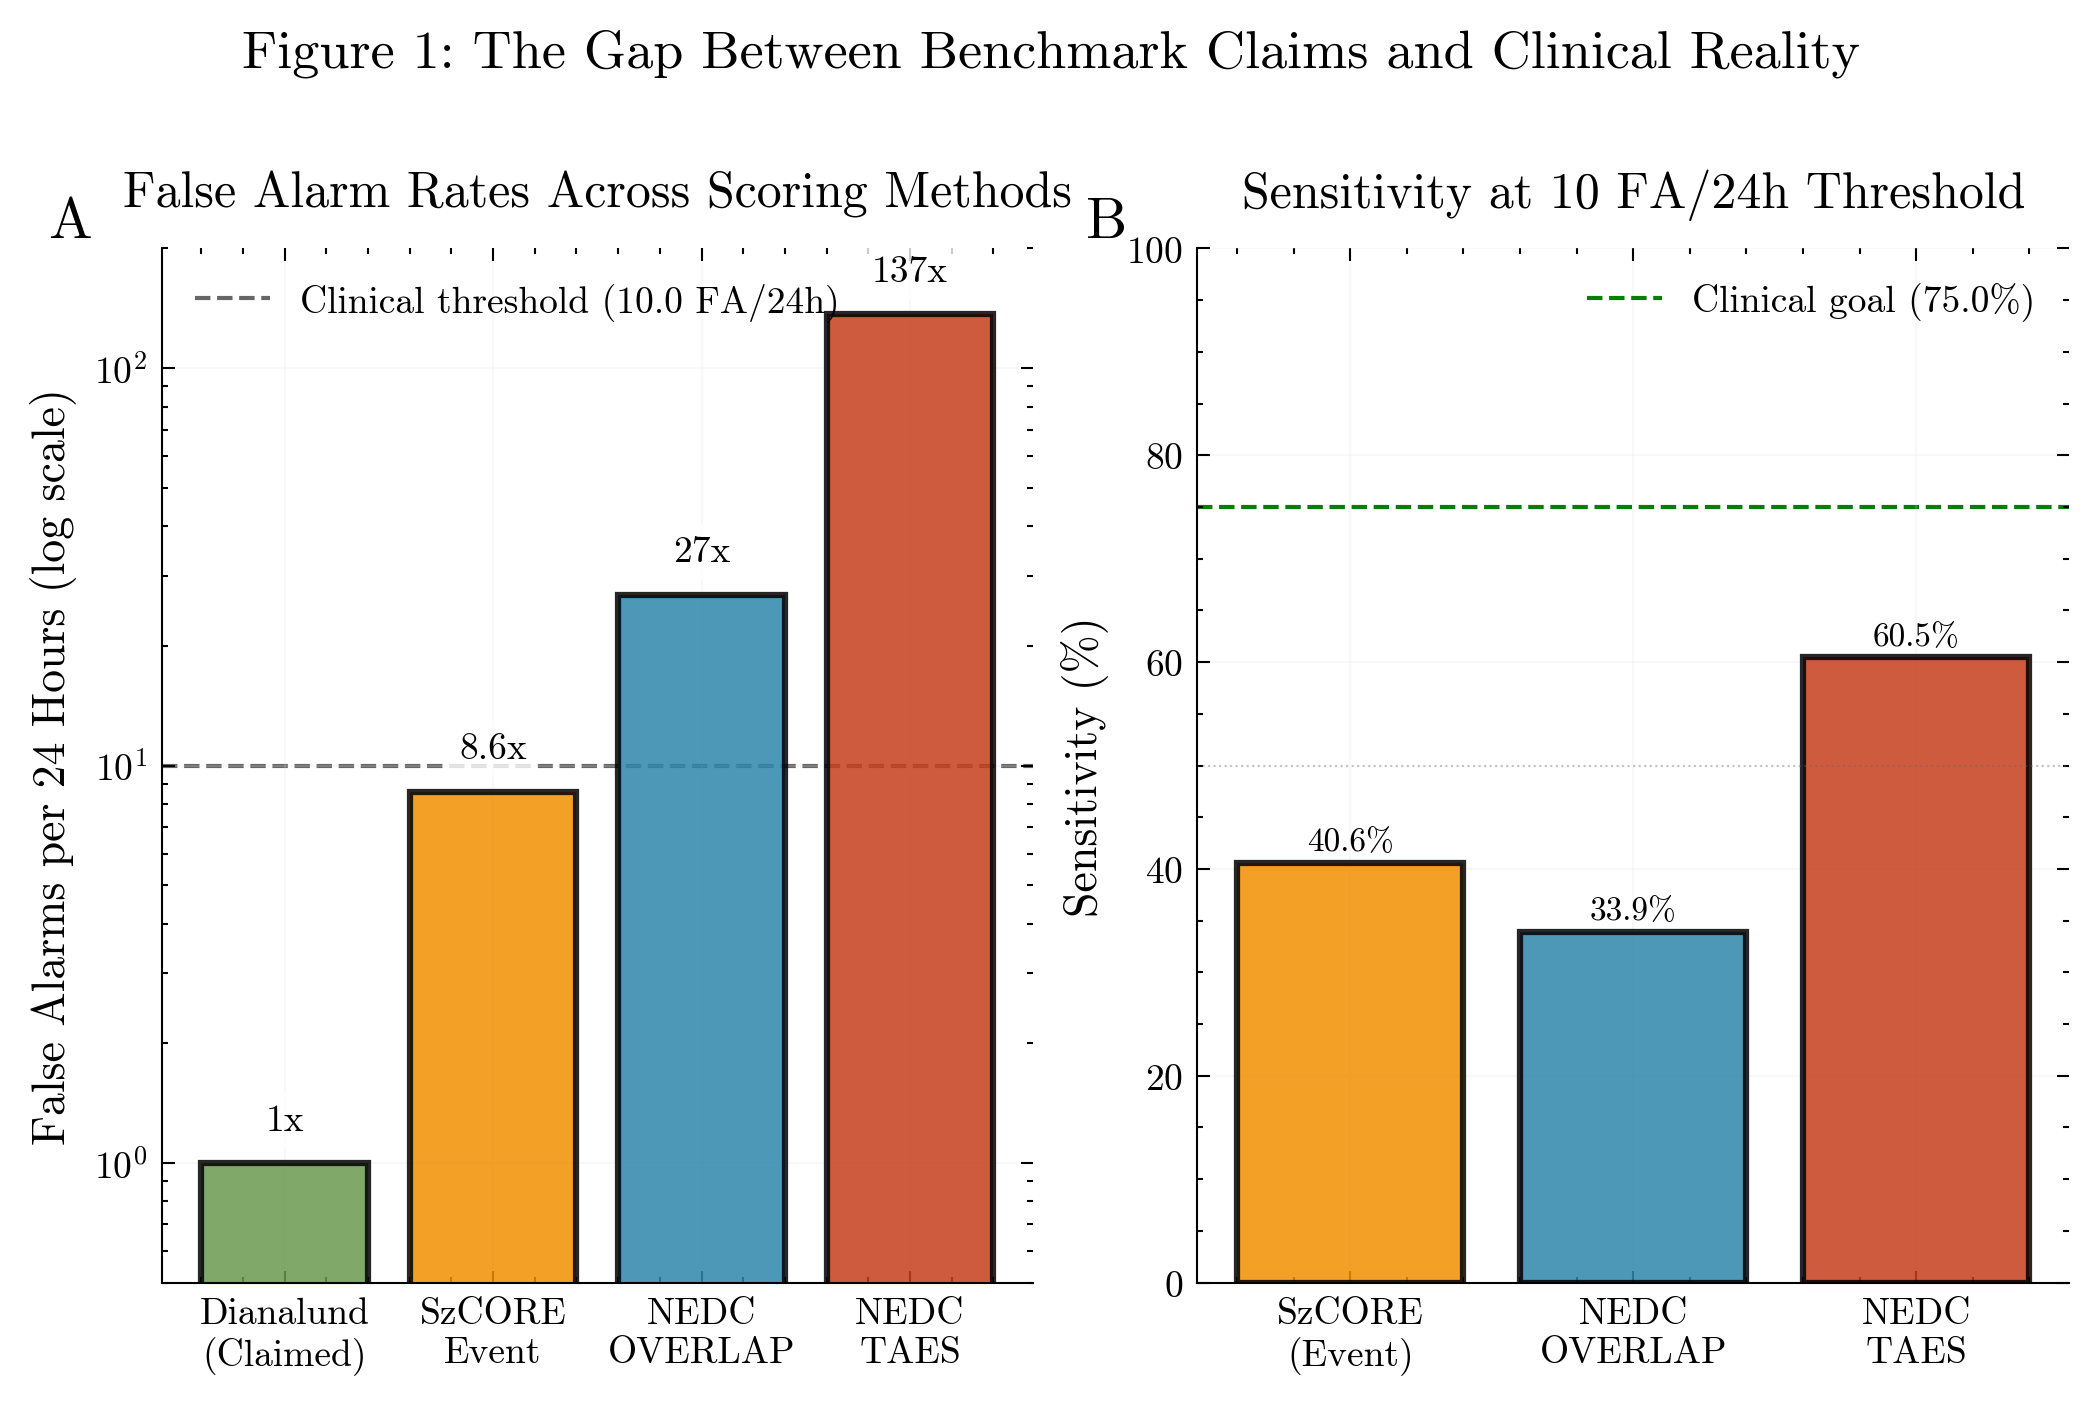
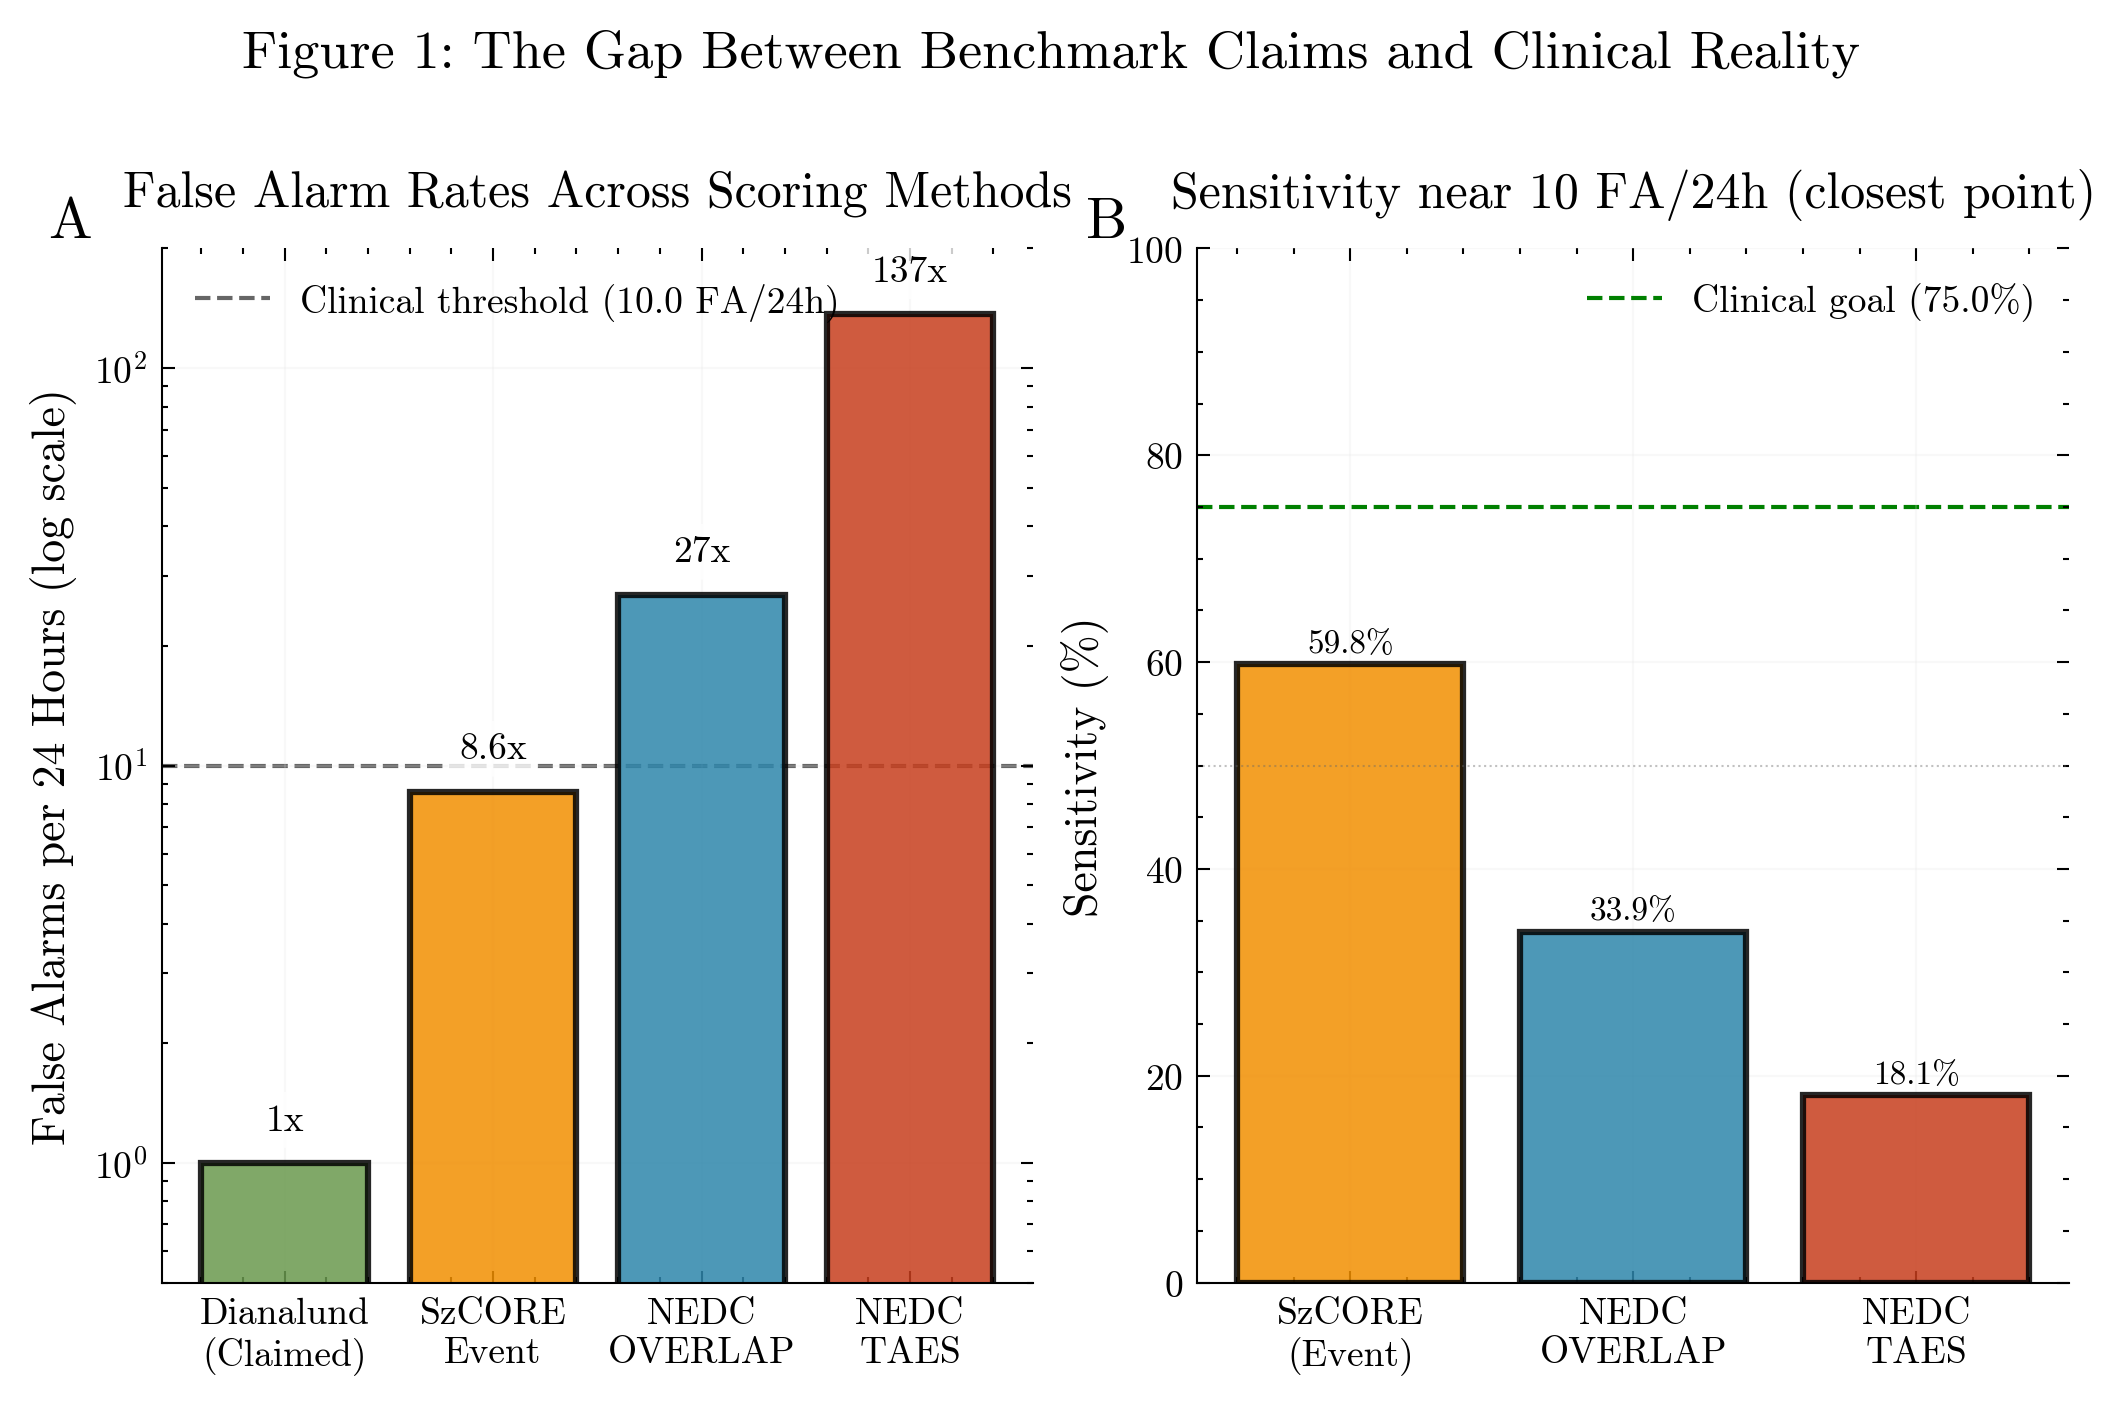
feat: Update documentation to reflect "SzCORE Event" terminology
- Replaced all instances of "SzCORE" with "SzCORE Event" in various evaluation and results documents to ensure consistency and clarity in terminology.
- Updated performance metrics and descriptions to accurately represent the scoring methodology used in the context of EpilepsyBench.
- These changes enhance the clarity and accuracy of the documentation, supporting the overall narrative for the arXiv submission.

diff --git a/literature/arxiv_submission/figures/scripts/fig1_optimized.py b/literature/arxiv_submission/figures/scripts/fig1_optimized.py
@@ -123,7 +123,7 @@ def generate_fig1_optimized():
     ax2.set_xticks(range(len(scorers)))
     ax2.set_xticklabels(scorers, fontsize=FONT_SIZE['tick'])
     setup_axes(ax2,
-              title='Sensitivity at 10 FA/24h Threshold',
+              title='Sensitivity near 10 FA/24h (closest point)',
               ylabel='Sensitivity (%)',
               grid=True)
 

diff --git a/docs/results/FINAL_COMPREHENSIVE_RESULTS_TABLE.md b/docs/results/FINAL_COMPREHENSIVE_RESULTS_TABLE.md
@@ -19,7 +19,7 @@ Each scoring method serves different purposes in seizure detection evaluation:
    - Validates parity with Temple's NEDC binary
    - Identical results to NEDC OVERLAP
 
-4. **SzCORE** - EpilepsyBench standard (most permissive)
+4. **SzCORE Event** (Any-Overlap + tolerances) - EpilepsyBench standard (most permissive)
    - Includes 30s pre-ictal and 60s post-ictal tolerances
    - Merges events <90s apart
    - Designed for clinical applications where early warning is valuable
@@ -35,7 +35,7 @@ Each scoring method serves different purposes in seizure detection evaluation:
 | **NEDC Temple TAES** | 65.21 | 136.73 |
 | **NEDC Temple OVERLAP** | 45.63 | 26.89 |
 | **Python OVERLAP** | 45.63 | 26.89 |
-| **SzCORE** | 52.35 | 8.59 |
+| **SzCORE Event** | 52.35 | 8.59 |
 
 ---
 
@@ -48,7 +48,7 @@ Each scoring method serves different purposes in seizure detection evaluation:
 | **NEDC Temple TAES** | 60.45 | 83.88 | ❌ |
 | **NEDC Temple OVERLAP** | 33.90 | 10.27 | ❌ (≈10.3) |
 | **Python OVERLAP** | 33.90 | 10.27 | ❌ (≈10.3) |
-| **SzCORE** | 40.59 | 3.36 | ✅ |
+| **SzCORE Event** | 40.59 | 3.36 | ✅ |
 
 ---
 
@@ -61,7 +61,7 @@ Each scoring method serves different purposes in seizure detection evaluation:
 | **NEDC Temple TAES** | 18.12 | 10.64 | ❌ |
 | **NEDC Temple OVERLAP** | 14.50 | 2.05 | ✅ |
 | **Python OVERLAP** | 14.50 | 2.05 | ✅ |
-| **SzCORE** | 19.71 | 0.75 | ✅ |
+| **SzCORE Event** | 19.71 | 0.75 | ✅ |
 
 ---
 
@@ -83,15 +83,15 @@ Each scoring method serves different purposes in seizure detection evaluation:
   - 10 FA target setting: 60.45% sens, 83.88 FA/24h (does not meet FA target)
   - 2.5 FA target setting: 18.12% sens, 10.64 FA/24h (does not meet FA target)
 
-- **SzCORE (EpilepsyBench):** Meets both FA targets with higher sensitivity than OVERLAP at the same settings (e.g., 3.36 FA @ 40.59% and 0.75 FA @ 19.71%).
+- **SzCORE Event (EpilepsyBench):** Meets both FA targets with higher sensitivity than OVERLAP at the same settings (e.g., 3.36 FA @ 40.59% and 0.75 FA @ 19.71%).
 
 ### Important Context
 - Different scoring methods serve different clinical and research needs
-- SzCORE's permissiveness reflects real-world clinical priorities (early warning)
+- SzCORE Event's permissiveness reflects real-world clinical priorities (early warning)
 - NEDC's stricter scoring reflects research priorities (temporal precision)
 - **Neither approach is "wrong" - they measure different aspects of performance**
 
-Note on FA/24h: For NEDC and Python OVERLAP rows, FA/24h reported here is SEIZ-only (primary), consistent with our reporting policy; NEDC’s “Total False Alarm Rate” (SEIZ+BCKG) is also available in raw summaries. SzCORE FA/24h follows its event-based definition.
+Note on FA/24h: For NEDC and Python OVERLAP rows, FA/24h reported here is SEIZ-only (primary), consistent with our reporting policy; NEDC’s “Total False Alarm Rate” (SEIZ+BCKG) is also available in raw summaries. SzCORE Event FA/24h follows its event-based definition.
 
 ### Methodology Note
 We tuned parameters using NEDC OVERLAP (the common practice for TUSZ) and evaluated across all metrics for transparency. This reveals how scoring methodology significantly impacts reported performance.

diff --git a/docs/evaluation/EVALUATION_RESULTS_TABLE.md b/docs/evaluation/EVALUATION_RESULTS_TABLE.md
@@ -4,7 +4,7 @@
 
 ## All Scoring Methods Comparison
 
-| Operating Point | Threshold | Kernel | MinDur | NEDC TAES (Temple) | NEDC OVERLAP (Temple) | NEDC OVERLAP (Native)* | SzCORE Any-Overlap |
+| Operating Point | Threshold | Kernel | MinDur | NEDC TAES (Temple) | NEDC OVERLAP (Temple) | NEDC OVERLAP (Native)* | SzCORE Event (Any-Overlap) |
 |-----------------|-----------|--------|--------|--------------------|-----------------------|-----------------------|-------------------|
 | **Default (paper)** | 0.800 | 5 | 2.0s | 65.21% / 136.73 FA | **45.63% / 26.89 FA** | 45.63% / 26.89 FA | **52.35% / 8.59 FA** |
 | **10 FA target** | TBD | 5 | TBD | TBD | *PENDING SWEEP* | *PENDING SWEEP* | TBD |
@@ -22,14 +22,14 @@ Format: Sensitivity% / FA per 24h
 | **NEDC TAES** | Temple's strictest clinical standard with fractional time-alignment scoring | Exact temporal alignment required (v6.0.0) |
 | **NEDC OVERLAP** | Temple's overlap-based scoring (any overlap within bounds) | Total FA/24h includes SEIZ + BCKG |
 | **NEDC OVERLAP (Native)*** | Our Python implementation of OVERLAP scoring | Achieves parity with Temple OVERLAP (±0.01%) |
-| **SzCORE Any-Overlap** | EpilepsyBench competition scoring | 30s pre, 60s post tolerance; merge <90s; any overlap counts |
+| **SzCORE Event (Any-Overlap)** | EpilepsyBench competition scoring | 30s pre, 60s post tolerance; merge <90s; any overlap counts |
 
 ## Key Findings
 
 ### 1. Default Parameters (0.8/5/2.0, no merge)
 - **NEDC OVERLAP (Temple)**: 45.63% sensitivity, 26.89 FA/24h (SEIZ)
 - **Native OVERLAP**: Matches Temple OVERLAP exactly
-- **SzCORE**: 52.35% sensitivity, 8.59 FA/24h
+- **SzCORE Event**: 52.35% sensitivity, 8.59 FA/24h
 - **Key Gap**: SzCORE’s tolerances/merge yield ≈3.1× lower FA than OVERLAP at default
 
 ### 2. Tuned Operating Points

diff --git a/docs/results/CORE3_EPILEPSYBENCH_SZCORE.md b/docs/results/CORE3_EPILEPSYBENCH_SZCORE.md
@@ -10,7 +10,7 @@
 
 ## What EpilepsyBench Uses (SzCORE)
 
-- Scoring philosophy: Any-Overlap within extended clinical windows.
+- Scoring philosophy: Any-Overlap within extended clinical windows (SzCORE Event).
   - 30 s pre-ictal tolerance; 60 s post-ictal tolerance; events <90 s apart are merged.
   - See in-repo implementation of these parameters in `src/seizure_evaluation/szcore/cli.py` (EventScoring.Parameters: `toleranceStart=30`, `toleranceEnd=60`, `minDurationBetweenEvents=90`).
 - Library: `timescoring` (official SzCORE/EpilepsyBench package).
@@ -59,7 +59,7 @@ Input format (from AAREADME “Input Files”):
 - NEDC TAES (Temple): Time-aligned event scoring providing stricter clinical temporal precision. Implemented in `lib/nedc_eeg_eval_taes.py` and summarized in `summary.txt`.
 
 In-repo example demonstrating the impact (same predictions, different scorers):
-- See `docs/evaluation/EVALUATION_RESULTS_TABLE.md` → Default row shows NEDC OVERLAP (SEIZ FA) 26.89 FA/24h vs SzCORE 8.59 FA/24h on TUSZ eval.
+- See `docs/evaluation/EVALUATION_RESULTS_TABLE.md` → Default row shows NEDC OVERLAP (SEIZ FA) 26.89 FA/24h vs SzCORE Event 8.59 FA/24h on TUSZ eval.
 - Screenshot of EpilepsyBench leaderboard context: `docs/images/wu_ebench.png` (TUSZ marked with 🚂 when trained on TUSZ).
 
 ---

diff --git a/docs/results/BENCHMARK_RESULTS.md b/docs/results/BENCHMARK_RESULTS.md
@@ -5,12 +5,12 @@
 | Metric | Sensitivity | FA/24h | F1 Score | Notes |
 |--------|------------|--------|----------|-------|
 | NEDC OVERLAP | 45.63% | 26.89 | 0.518 | Temple's binary event scorer (SEIZ FA) |
-| SzCORE | 52.35% | 8.59 | - | EpilepsyBench (90s internal merge) |
+| SzCORE Event | 52.35% | 8.59 | - | EpilepsyBench (90s internal merge) |
 
 ## Key Findings
 
 1. **Without merge_gap manipulation**: The model shows 26.89 FA/24h (SEIZ) at paper defaults (OVERLAP)
-2. **SzCORE difference**: SzCORE's tolerances/merge reduce FA by ≈3.1× vs OVERLAP at default
+2. **SzCORE difference**: SzCORE Event's tolerances/merge reduce FA by ≈3.1× vs OVERLAP at default
 3. **Clinical viability**: At paper defaults, NOT clinically viable (need <10 FA/24h)
 
 ## Clinical Tuning Targets
@@ -25,5 +25,5 @@
 
 - All results use merge_gap=None (no artificial FA reduction)
 - NEDC scores follow Temple University standards
-- SzCORE uses timescoring package with EpilepsyBench defaults
+- SzCORE Event uses timescoring package with EpilepsyBench defaults
 

diff --git a/docs/status/SINGLE_SOURCE_OF_TRUTH.md b/docs/status/SINGLE_SOURCE_OF_TRUTH.md
@@ -11,7 +11,7 @@
 |--------|------------|--------|----------|-------|
 | **NEDC OVERLAP** | 45.63% | 26.89 | 0.518 | Temple's binary event scorer (SEIZ FA) |
 | **Native OVERLAP** | 45.63% | 26.89 | 0.518 | Exact parity with NEDC |
-| **SzCORE** | 52.35% | 8.59 | - | 90s internal merge reduces FA |
+| **SzCORE Event** | 52.35% | 8.59 | - | 90s internal merge reduces FA |
 
 ## ✅ WHAT'S WORKING NOW
 
@@ -73,7 +73,7 @@ make check-all  # All pass
 
 1. **Always use merge_gap=None** for academic/clinical reporting
 2. **NEDC OVERLAP** is our primary metric (matches Temple standards)
-3. **SzCORE** has internal 90s merge (reduces FA vs NEDC by ≈3.1× at default OVERLAP)
+3. **SzCORE Event** has internal 90s merge (reduces FA vs NEDC by ≈3.1× at default OVERLAP)
 4. **AUROC 0.9019** (our pipeline) vs paper's 0.876
 
 ## 📈 NEXT STEPS
